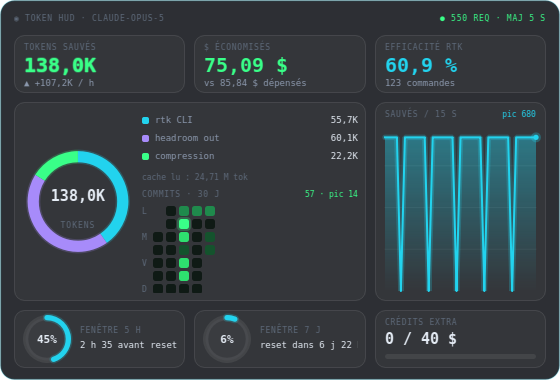
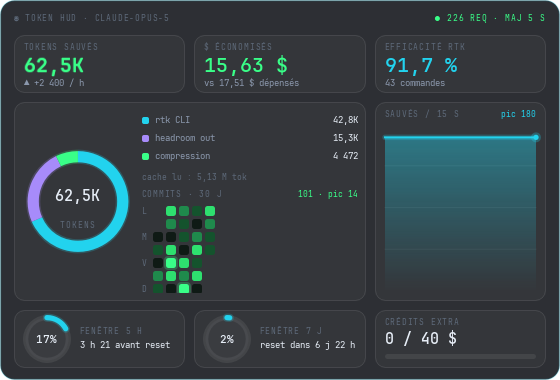
✨ feat: capture real HUD shots offscreen and fail CI if they go stale
Add `make shots` (HudWindow.grab on QT_QPA_PLATFORM=offscreen), make
`make gif` depend on it, commit the 806×44 ticker with quota 7 j, and
add a GitHub Actions check that regenerates images/ and diffs.

diff --git a/tools/capture_shots.py b/tools/capture_shots.py
@@ -1,0 +1,199 @@
+"""Grab ticker and dashboard PNGs from the real HudWindow, offscreen.
+
+Drives `HudWindow` with a frozen snapshot so `make shots` is deterministic on CI.
+Does not start collectors (live clocks and GitHub would churn the pixels). Radial
+gauges animate for 500 ms; we wait for that to settle before `QWidget.grab()`.
+"""
+
+from __future__ import annotations
+
+import os
+import sys
+import tempfile
+from datetime import date, timedelta
+from pathlib import Path
+
+# Isolate QSettings / history before Qt reads XDG paths.
+_xdg = Path(tempfile.mkdtemp(prefix="token-hud-shots-"))
+os.environ.setdefault("XDG_CONFIG_HOME", str(_xdg / "config"))
+os.environ.setdefault("XDG_DATA_HOME", str(_xdg / "data"))
+os.environ.setdefault("XDG_CACHE_HOME", str(_xdg / "cache"))
+os.environ.setdefault("QT_QPA_PLATFORM", "offscreen")
+os.environ.setdefault("QT_ENABLE_HIGHDPI_SCALING", "0")
+os.environ["QT_AUTO_SCREEN_SCALE_FACTOR"] = "0"
+os.environ.setdefault("QT_FONT_DPI", "96")
+os.environ.setdefault("QT_SCALE_FACTOR", "1")
+
+_font_dir = Path("/usr/share/fonts/truetype/jetbrains-mono")
+if _font_dir.is_dir():
+    _fc = _xdg / "fonts.conf"
+    _fc.write_text(
+        """<?xml version="1.0"?>
+<!DOCTYPE fontconfig SYSTEM "urn:fontconfig:fonts.dtd">
+<fontconfig>
+  <dir>/usr/share/fonts/truetype/jetbrains-mono</dir>
+  <dir>/usr/share/fonts/truetype/dejavu</dir>
+</fontconfig>
+""",
+        encoding="utf-8",
+    )
+    os.environ["FONTCONFIG_FILE"] = str(_fc)
+
+from PyQt6.QtCore import QEventLoop, QObject, QTimer, pyqtSignal  # noqa: E402
+from PyQt6.QtGui import QPixmap  # noqa: E402
+from PyQt6.QtWidgets import QApplication  # noqa: E402
+
+from token_hud.hud import DASHBOARD_SIZE, TICKER_SIZE, HudWindow  # noqa: E402
+from token_hud.model import (  # noqa: E402
+    CommitMetrics,
+    HeadroomMetrics,
+    QuotaMetrics,
+    QuotaWindow,
+    RtkMetrics,
+    Snapshot,
+)
+
+ROOT = Path(__file__).resolve().parents[1]
+IMAGES = ROOT / "images"
+GAUGE_SETTLE_MS = 650
+
+
+class _ShotStore(QObject):
+    """Duck-typed stand-in for MetricsStore: same signals/methods, no I/O."""
+
+    snapshotReady = pyqtSignal(object)
+
+    def __init__(self, snapshot: Snapshot, series: list[tuple[float, int]], rate: float) -> None:
+        super().__init__()
+        self._snapshot = snapshot
+        self._series = series
+        self._rate = rate
+
+    @property
+    def snapshot(self) -> Snapshot:
+        return self._snapshot
+
+    def series(self) -> list[tuple[float, int]]:
+        return list(self._series)
+
+    def rate_per_hour(self) -> float:
+        return self._rate
+
+    def save_history(self) -> None:
+        return
+
+
+def _commits() -> CommitMetrics:
+    start = date(2026, 7, 8)
+    counts = (
+        0, 1, 0, 4, 2, 8, 3,
+        0, 5, 14, 6, 0, 3, 1,
+        2, 0, 7, 4, 9, 1, 0,
+        3, 5, 2, 8, 0, 6, 4, 1, 2,
+    )
+    days = tuple(((start + timedelta(days=i)).isoformat(), count) for i, count in enumerate(counts))
+    return CommitMetrics(days=days, source="github", ok=True)
+
+
+def _snapshot() -> Snapshot:
+    return Snapshot(
+        rtk=RtkMetrics(commands=43, tokens_saved=42_803, savings_pct=91.7, ok=True),
+        headroom=HeadroomMetrics(
+            requests=226,
+            compression_tokens_saved=4_472,
+            output_tokens_saved=15_262,
+            compression_usd=0.013416,
+            output_usd=0.22893,
+            cache_usd=15.386685,
+            cache_read_tokens=5_128_895,
+            input_cost_usd=17.512782,
+            model="claude-opus-5",
+            ok=True,
+        ),
+        quota=QuotaMetrics(
+            five_hour=QuotaWindow(utilization_pct=17.0, seconds_to_reset=12_075),
+            seven_day=QuotaWindow(utilization_pct=2.0, seconds_to_reset=599_475),
+            extra_used_usd=0.0,
+            extra_limit_usd=40.0,
+            ok=True,
+        ),
+        commits=_commits(),
+    )
+
+
+def _series() -> list[tuple[float, int]]:
+    origin = 1_700_000_000.0
+    return [(origin + i * 15.0, 50_000 + i * 180) for i in range(24)]
+
+
+def _wait(app: QApplication, ms: int) -> None:
+    loop = QEventLoop()
+    QTimer.singleShot(ms, loop.quit)
+    loop.exec()
+    app.processEvents()
+
+
+def _opaque_samples(pixmap: QPixmap) -> int:
+    image = pixmap.toImage()
+    hits = 0
+    for y in range(0, image.height(), 2):
+        for x in range(0, image.width(), 2):
+            if image.pixelColor(x, y).alpha() > 8:
+                hits += 1
+    return hits
+
+
+def _grab(window: HudWindow, snap: Snapshot, mode: str, size: tuple[int, int], app: QApplication) -> QPixmap:
+    window.set_mode(mode)
+    window.apply(snap)
+    window.show()
+    window.repaint()
+    app.processEvents()
+    _wait(app, GAUGE_SETTLE_MS)
+    pixmap = window.grab()
+    width, height = pixmap.width(), pixmap.height()
+    if (width, height) != size:
+        raise SystemExit(f"{mode} grab is {width}x{height}, expected {size[0]}x{size[1]}")
+    samples = _opaque_samples(pixmap)
+    if samples < 40:
+        platform = os.environ.get("QT_QPA_PLATFORM", "?")
+        raise SystemExit(
+            f"{mode} grab looks blank ({samples} opaque samples, platform={platform}). "
+            "Need a working offscreen/xvfb paint path; refusing to write a fake PNG."
+        )
+    return pixmap
+
+
+def main() -> int:
+    IMAGES.mkdir(parents=True, exist_ok=True)
+    app = QApplication(sys.argv)
+    app.setApplicationName("token-hud-shots")
+    app.setOrganizationName("token-hud-shots")
+    app.setQuitOnLastWindowClosed(False)
+
+    snap = _snapshot()
+    store = _ShotStore(snap, _series(), rate=2_400.0)
+    window = HudWindow(store)
+    window.apply(snap)
+
+    ticker = _grab(window, snap, "ticker", TICKER_SIZE, app)
+    ticker_path = IMAGES / "ticker.png"
+    if not ticker.save(str(ticker_path), "PNG"):
+        raise SystemExit(f"failed to write {ticker_path}")
+
+    dashboard = _grab(window, snap, "dashboard", DASHBOARD_SIZE, app)
+    dashboard_path = IMAGES / "dashboard.png"
+    if not dashboard.save(str(dashboard_path), "PNG"):
+        raise SystemExit(f"failed to write {dashboard_path}")
+
+    platform = os.environ.get("QT_QPA_PLATFORM", "?")
+    print(f"platform={platform} font-dpi={os.environ.get('QT_FONT_DPI')}")
+    print(f"{ticker_path} {ticker.width()}x{ticker.height()}")
+    print(f"{dashboard_path} {dashboard.width()}x{dashboard.height()}")
+    # Skip Qt teardown: CommitTooltip can already be gone when hideEvent runs.
+    sys.stdout.flush()
+    os._exit(0)
+
+
+if __name__ == "__main__":
+    raise SystemExit(main())

diff --git a/AGENTS.md b/AGENTS.md
@@ -37,6 +37,10 @@ interpreters have no PyQt6.
 display; in a headless session it fails at `QApplication`, which is expected and not a bug
 to fix.
 
+`make shots` grabs `images/ticker.png` and `images/dashboard.png` from the real
+`HudWindow` (`QT_QPA_PLATFORM=offscreen`). `make gif` depends on `shots`, then stitches
+`images/demo.gif`. Never edit those images by hand.
+
 ## Constraints that are easy to break
 
 - **No I/O in the UI thread.** Every read goes through `collectors.job()` onto the
@@ -73,6 +77,6 @@ Under Wayland the HUD cannot stay on top, so `__main__._prefer_x11` forces
 
 ## Not to touch
 
-`images/demo.gif` and the screenshots are generated - rebuild with `make gif`, never by
-hand. `uv.lock` is likewise generated - change dependencies in `pyproject.toml` and let
-`uv sync` rewrite it.
+`images/demo.gif` and the screenshots are generated - rebuild with `make gif` (which
+runs `make shots` first), never by hand. `uv.lock` is likewise generated - change
+dependencies in `pyproject.toml` and let `uv sync` rewrite it.

diff --git a/README.md b/README.md
@@ -21,6 +21,8 @@ Managed with [uv](https://docs.astral.sh/uv/), driven through a Makefile.
 make dev    # create .venv, install runtime + dev dependencies
 make start  # launch the HUD in background
 make check  # ruff + pytest, no display needed
+make shots  # grab ticker + dashboard PNGs from the real HUD (offscreen)
+make gif    # shots, then stitch images/demo.gif
 ```
 
 `make help` lists every target. Without make: `uv sync` then
